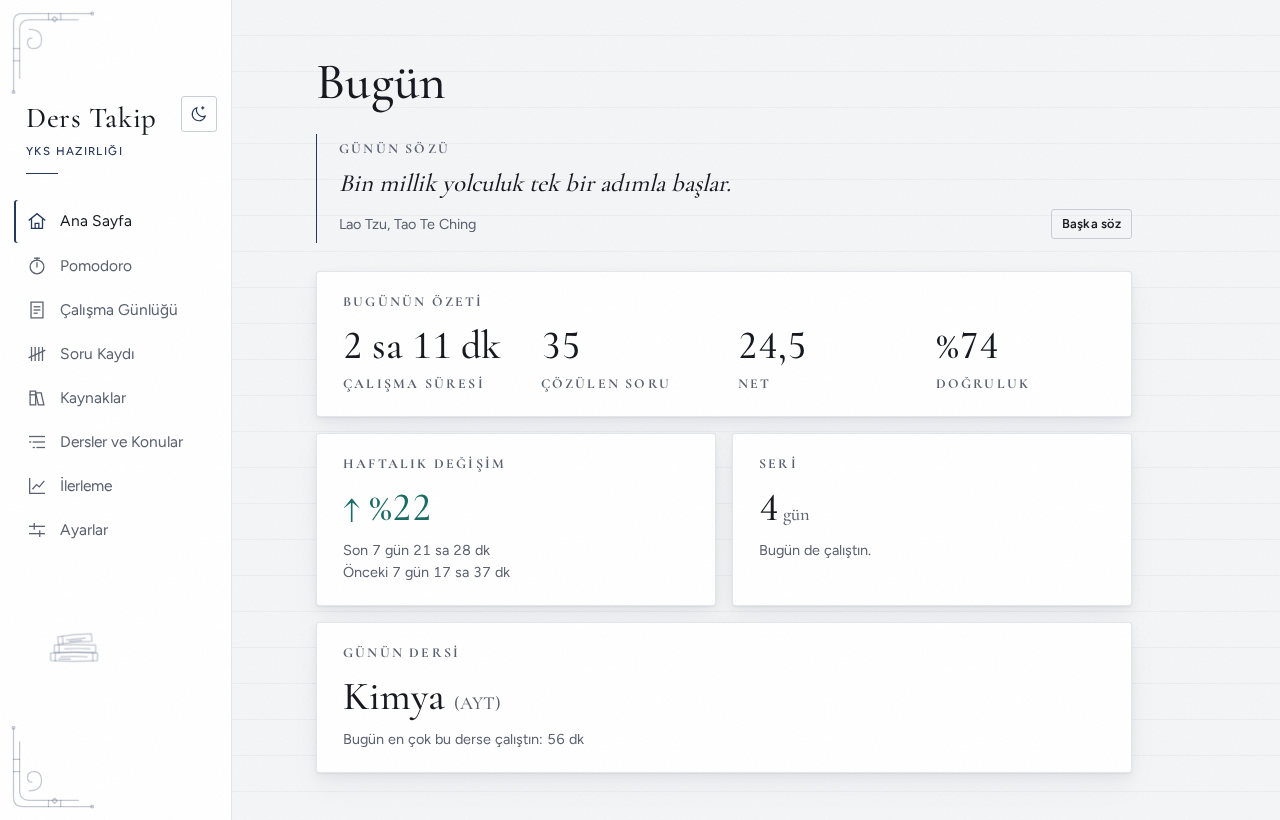
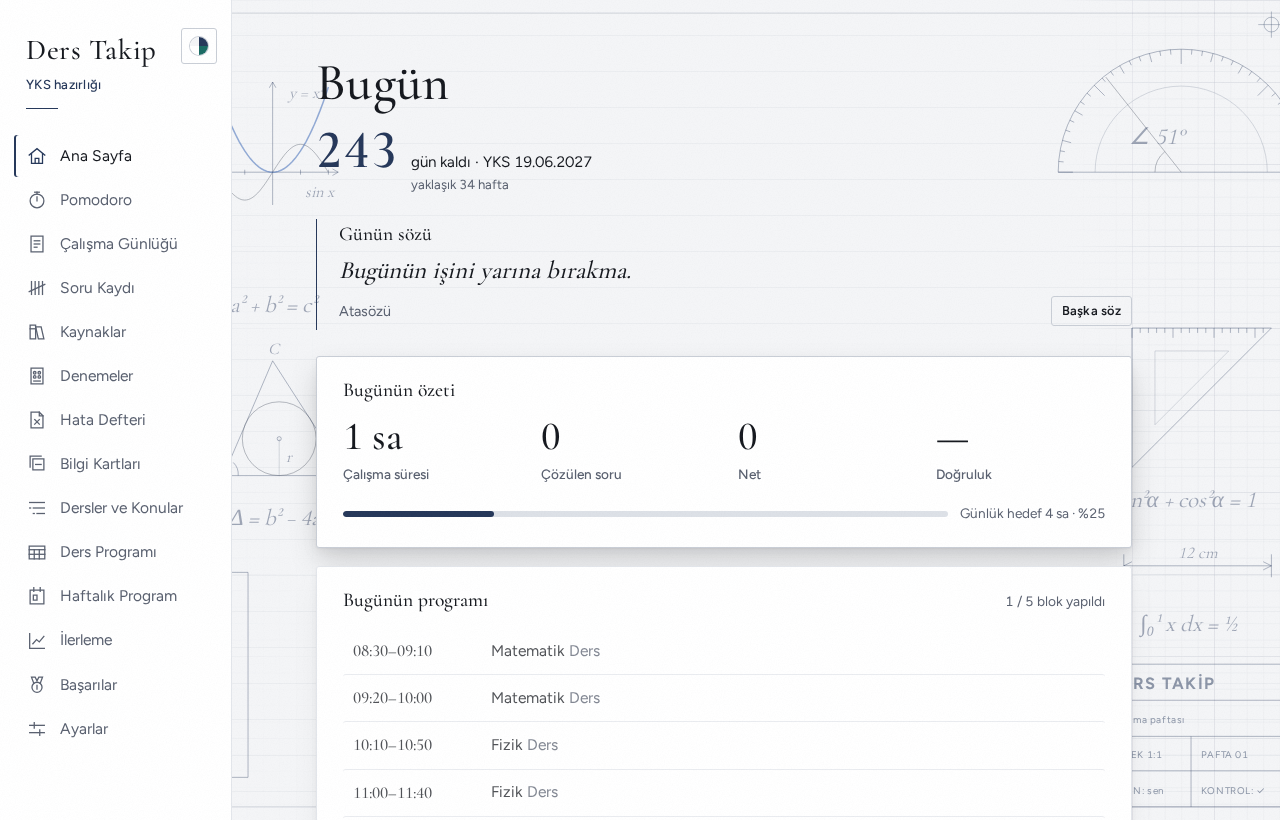
docs: README vitrini ve ekran görüntüleri güncel arayüzle yenilendi
- En üstte dört temayı gösteren tanıtım görseli (docs/social-preview.png,
  GitHub paylaşım önizlemesi olarak da kullanılabilir).
- Özellikler Çalış / Planla / Ölç / Tekrar et / Üniversite / Ve ayrıca diye
  gruplandı; 30 satırlık tablo yerine kısa maddeler.
- Bütün eski ekran görüntüleri örnek verilerle yeniden çekildi; Dönem ve
  devamsızlık görüntüleri eklendi, kullanılmayan görüntü silindi.

Claude-Session: https://claude.ai/code/session_01JevtdtGCnpPBVcnV2mfKpM

diff --git a/README.md b/README.md
@@ -1,56 +1,66 @@
-# Ders Takip
+<p align="center"><img src="docs/social-preview.png" alt="Ders Takip: dört temada ana sayfa" width="860"></p>
 
-**YKS, DGS ve üniversite dersleri için kişisel çalışma takip uygulaması.** Pomodoro ile çalış, süreni ve çözdüğün soruları kaydet, test kitaplarında nerede kaldığını takip et, ilerlemeni grafiklerle gör.
+<h1 align="center">Ders Takip</h1>
 
-[![Yayın](https://github.com/yusufoztoprak495-star/ders-takip/actions/workflows/pages.yml/badge.svg)](https://github.com/yusufoztoprak495-star/ders-takip/actions/workflows/pages.yml)
-![React](https://img.shields.io/badge/React-19-149eca)
-![Vite](https://img.shields.io/badge/Vite-8-646cff)
-![PWA](https://img.shields.io/badge/PWA-çevrimdışı%20çalışır-5a0fc8)
-![Testler](https://img.shields.io/badge/test-572%20geçiyor-2ea44f)
+<p align="center"><b>YKS, DGS ve üniversite için kişisel, çevrimdışı çalışan ders çalışma uygulaması.</b><br>
+Pomodoro ile çalış, denemelerini ve netini takip et, yanlışlarını hata defterine at, haftanı planla, gidişatını gör.</p>
 
-### 👉 [Uygulamayı aç](https://yusufoztoprak495-star.github.io/ders-takip/)
+<p align="center">
+<a href="https://github.com/yusufoztoprak495-star/ders-takip/actions/workflows/pages.yml"><img src="https://github.com/yusufoztoprak495-star/ders-takip/actions/workflows/pages.yml/badge.svg" alt="Yayın"></a>
+<img src="https://img.shields.io/badge/React-19-149eca" alt="React 19">
+<img src="https://img.shields.io/badge/Vite-8-646cff" alt="Vite 8">
+<img src="https://img.shields.io/badge/PWA-çevrimdışı%20çalışır-5a0fc8" alt="PWA">
+<img src="https://img.shields.io/badge/test-573%20geçiyor-2ea44f" alt="573 test">
+<img src="https://img.shields.io/badge/sunucu-yok-555" alt="Sunucu yok">
+</p>
+
+<h3 align="center">👉 <a href="https://yusufoztoprak495-star.github.io/ders-takip/">Uygulamayı aç</a></h3>
 
 Kurulum yok, hesap yok. Veriler yalnızca senin tarayıcında durur, hiçbir sunucuya gönderilmez. Telefonda "Ana ekrana ekle" ile uygulama gibi kurulur ve internetsiz de açılır.
 
-Önce nasıl göründüğüne bakmak istersen: **Ayarlar → Örnek verilerle dene** 200 günlük örnek bir YKS çalışma geçmişi yükler (kendi verin varsa önce yedek al).
+> **Önce bir bak:** Ayarlar → **Örnek verilerle dene**, 200 günlük örnek bir YKS çalışma geçmişi yükler (kendi verin varsa önce yedek al).
 
-![Ana sayfa: günün sözü, bugünün özeti, haftalık değişim, seri ve günün dersi](docs/screenshots/ana-sayfa.png)
+![Ana sayfa: geri sayım, günün sözü, bugünün özeti ve bugünün programı](docs/screenshots/ana-sayfa.png)
 
 ## Neler yapabilir?
 
-| | |
-| --- | --- |
-| 🎯 **Üç hedef** | YKS (TYT/AYT), DGS (sayısal/sözel) ya da üniversite dersleri. Her hedefin dersleri ve kayıtları ayrı tutulur; hedef değiştirince öbürü silinmez, gizlenir. |
-| ⏱ **Pomodoro** | Ders ve konu seçip sayacı başlat; süre dolunca çalışma kendiliğinden kaydedilir. Arkada odak sesi çalabilir: dört ölçülük cümlelerle sakin piyano, müzik kutusu, gece sentezi (arpej + bas + pad), derin ambiyans, damlalı yağmur ya da kahverengi gürültü. Hepsi tarayıcıda anlık üretilir, ses dosyası yok. |
-| 📒 **Çalışma günlüğü** | Pomodoro dışındaki çalışmaları elle ekle. |
-| 📝 **Denemeler** | Genel denemeler: TYT, AYT Sayısal / Eşit Ağırlık / Sözel ve DGS, bölüm bölüm; net grafiği, bir önceki denemeye göre değişim, en zayıf bölüm. Branş denemeleri: tek ders, kendi soru sayısıyla; ders başına ortalama ve net yüzdesi grafiği. |
-| 🎯 **Hedefler ve geri sayım** | Sınav tarihine kalan gün ana sayfada; günlük çalışma hedefi bugünün özetinde çubuk olarak. |
-| 🔁 **Konu tekrarı** | Bitirdiğin konuyu işaretle; 1, 3, 7 ve 30 gün sonra ana sayfadaki tekrar listesine düşer. |
-| ✍ **Soru kaydı** | Doğru / yanlış / boş gir; net (`doğru − yanlış / 4`) ve doğruluk otomatik hesaplanır. |
-| 📚 **Kaynaklar** | Test kitaplarında kaçıncı testte olduğun ve son çözüm tarihi. |
-| 📈 **İlerleme** | Günlük ve haftalık süre, net değişimi, derse göre karşılaştırma; derse ve konuya inip **en zayıf konunu** gör. |
-| 🗓 **Ders programı** | Okul, kurs ya da üniversite ders saatlerini haftalık gir (aynı saati birden çok güne tek seferde). Her günün şeridinde dersler ve 45 dakikadan uzun boşluklar süresiyle görünür. |
-| 🕘 **Haftalık program** | Haftayı saat saat planla: ders programındaki dersler ızgaraya kendiliğinden gelir, boş saate tıklayıp çalışma / mola / diğer bloğu ekle, bir günü başka günlere kopyala. Gün başlığında planlanan ve gerçekten kaydedilen çalışma süresi yan yana. |
-| 🗂 **Dersler ve konular** | YKS sayısalın 15 dersi (TYT: Türkçe, Matematik, Geometri, Fizik, Kimya, Biyoloji, Tarih, Coğrafya, Felsefe, Din Kültürü; AYT: Matematik, Geometri, Fizik, Kimya, Biyoloji) tüm konularıyla, müfredat sırasında hazır gelir. Listeyi düzenle ya da kendi derslerini (dönemiyle) ekle. |
-| ✨ **Canlılık** | Kartlar sırayla gelir, sayılar sayarak dolar, grafikler çizilerek açılır; pomodoro bitince, konu ya da ders tamamlanınca, yeni rekor nette ve günlük hedefe ulaşınca konfetili kutlama. "Hareketi azalt" açıksa hepsi kapanır. |
-| 🎨 **Dört tema** | Gece (Samanyolu, Türkçe adlı takımyıldızlar, gezegen yörüngeleri, kayan yıldızlar), Kâğıt (teknik çizim paftası: antet, gönye, grafikler, kalemle beliren notlar), Neon (yağmurlu neon gece, bokeh ışıklar, yanıp sönen ODAK tabelası) ve Pastel (kalın çizgili çıkartma kartlar, kareli defter, fosforlu başlık). Yeni tema, tema düğmesinden daire hâlinde yayılarak gelir; "hareketi azalt" açıksa arka planlar durur. Masaüstünde sol menü, telefonda 4 ana sekme + Diğer paneli. |
-| 📆 **Bugünün programı** | Ana sayfada bugünün dersleri ve çalışma blokları, şu anki blok vurgulu; bir bloktan tek dokunuşla Pomodoro başlat, tur bitince blok "yapıldı" olur. |
-| 🔥 **Isı haritası** | Son bir yılın her günü bir kare (ana sayfada son dört ay): kaç gün çalıştın, en uzun günün. |
-| 🔮 **Gidişat** | Deneme netinin tavana yaklaştıkça yavaşlayan eğriyle 3 aya kadar tahmini; konu bitirme hızına göre bitiş tarihi ve sınava yetişmek için haftada kaç konu gerektiği; günün hangi saatlerinde çalıştığın (verimli saatler). |
-| 🧮 **Puan ve sıralama tahmini** | TYT ve SAY / EA / SÖZ netlerinden (son 3 deneme ortalamasıyla doldurulabilir) ve diploma notundan tahmini ham ve yerleştirme puanı; 2025-YKS puan dağılımından tahmini başarı sırası; hedef sıra için gereken puan. Katsayılar yaklaşıktır, ekranda tahmin olduğu yazar. |
-| 🎯 **Yanlış konu analizi** | Denemeden sonra yanlış/boş soruların konusunu işle; "soru kaybettiren konular" sıralaması çıkar. |
-| 📸 **Hata defteri** | Yanlış yaptığın sorunun fotoğrafını çek (tarayıcıda küçültülür), cevabı ve notunu ekle; 1-3-7-30 gün arayla yeniden karşına çıkar, dört kez üst üste doğru çözünce öğrenilmiş sayılır. |
-| 🃏 **Bilgi kartları** | Formül ve tanımlar için çevrilen kartlar, Leitner kutularıyla (1-2-4-8-16 gün) tekrar; kartlardan 4 şıklı mini test. |
-| 🗒 **Konu notları** | Her konuya formül / püf noktası notu. |
-| 🧠 **Akıllı plan önerisi** | Haftalık programdaki boş saatlere zayıf konulardan (denemede soru kaybettiren, doğruluğu düşük, tekrarı gelen) çalışma blokları önerir; istemediklerini çıkarıp ekle. |
-| 🧘 **Odak modu ve mola sağlığı** | Tam ekran sade sayaç; turda sekmeden kaç kez çıktığın sayılır. Her 4 turda uzun mola, molada kısa öneriler, uzun turlarda 20-20-20 göz molası hatırlatması. |
-| 🏅 **Başarılar** | 20 rozet (seri, saat, soru, deneme, odak, erkenci kuş…) ve her pomodoroda büyüyen, temaya göre değişen koleksiyon: Gece'de yıldızlar, Kâğıt'ta mürekkep yapraklar, Neon'da ışıklar, Pastel'de çıkartmalar. |
-| 🖼 **Haftalık rapor kartı** | Haftanın özetini temanın renkleriyle 1080×1920 PNG olarak indir ya da paylaş. |
-| 🎓 **Dönem (üniversite)** | Ders başına kredi ve not bileşenleri, harf notu, hedef harf için finalden kaç alman gerektiği, dönem ortalaması; ders programından hesaplanan devamsızlık hakkı ve "Gitmedim" düğmesi; ödev teslimlerine geri sayım. |
-| ⌨ **Kısayollar ve hafif mod** | Tek harfle sayfa değiştir (`?` listeyi açar); haftalık programı ve sınav gününü `.ics` olarak takvimine aktar; eski cihazlar için animasyonları ve arka planı kapatan hafif mod; ana ekran simgesinde Pomodoro / Soru / Hafta kısayolları. |
-| 💾 **Yedekleme** | Yedeği indir/yükle (hata defteri fotoğrafları dahil), haftalık hatırlatma, bilgisayarda bir klasöre günlük otomatik yedek. |
+### ⏱ Çalış
+- **Pomodoro:** ders ve konu seç, sayaç bitince çalışma kendiliğinden kaydedilir. Tarayıcıda anlık üretilen odak sesleri (piyano, müzik kutusu, gece sentezi, yağmur, kahverengi gürültü…), ses dosyası yok.
+- **Odak modu:** tam ekran sade sayaç; turda sekmeden kaç kez çıktığın sayılır.
+- **Mola sağlığı:** her 4 turda uzun mola, molada kısa öneriler, uzun turlarda 20-20-20 göz molası hatırlatması.
+- **Çalışma günlüğü:** Pomodoro dışındaki çalışmaları elle ekle.
 
-> Üniversite hedefinde sınav mantığı yoktur: soru kaydı, kaynaklar, net ve doğruluk gizlenir; onların yerine Dönem sayfası (not, devamsızlık, ödev) gelir.
+### 🗓 Planla
+- **Bugünün programı:** ana sayfada bugünün dersleri ve blokları; bir bloktan tek dokunuşla Pomodoro başlat, tur bitince blok "yapıldı" olur.
+- **Ders programı:** okul, kurs ya da üniversite ders saatleri; her günün şeridinde dersler ve boş zaman.
+- **Haftalık program:** haftayı saat saat planla, bir günü başka günlere kopyala, planlanan ve gerçekleşen süre yan yana.
+- **Akıllı öneri:** boş saatlere en çok zorlandığın konulardan (denemede soru kaybettiren, doğruluğu düşük, tekrarı gelen) bloklar önerir.
+- **Takvime aktar:** programı ve sınav gününü `.ics` olarak Google / Apple Takvim'e aktar.
+- **Sınav geri sayımı ve günlük hedef.**
+
+### 📝 Ölç
+- **Soru kaydı ve kaynaklar:** doğru / yanlış / boş; net (`doğru − yanlış / 4`) ve doğruluk kendiliğinden. Test kitaplarında nerede kaldığın.
+- **Denemeler:** TYT, AYT SAY / EA / SÖZ ve DGS bölüm bölüm; branş denemeleri ayrı sekmede. Denemeden sonra yanlış/boş soruların konusunu işle, **soru kaybettiren konular** sıralaması çıkar.
+- **Puan ve sıralama tahmini:** netlerinden ve diploma notundan tahmini puan, 2025 dağılımından tahmini başarı sırası, hedef sıra için gereken puan (yaklaşık katsayılarla; ekranda tahmin olduğu yazar).
+- **İlerleme:** yıllık ısı haritası; günlük/haftalık süre, net değişimi, derse ve konuya inip en zayıf konu; verimli saatler; net gidişatı ve konu bitiş tahmini.
+- **Haftalık rapor kartı:** haftanın özeti, temanın renkleriyle 1080×1920 PNG.
+
+### 🔁 Tekrar et
+- **Konu tekrarı:** bitirdiğin konu 1, 3, 7 ve 30 gün sonra tekrar listesine düşer; her konuya not.
+- **Hata defteri:** yanlış yaptığın sorunun fotoğrafını çek (tarayıcıda küçültülür); aynı aralıklarla yeniden karşına çıkar.
+- **Bilgi kartları:** çevrilen kartlar ve Leitner kutuları (1-2-4-8-16 gün); kartlardan 4 şıklı mini test.
+
+### 🎓 Üniversite
+- **Dönem sayfası:** ders başına kredi ve not bileşenleri, harf notu, hedef harf için finalden kaç alman gerektiği, dönem ortalaması.
+- **Devamsızlık:** hakkın ders programından (14 haftanın %30'u) hesaplanır; bugünkü derslerden tek tıkla "Gitmedim".
+- **Ödevler:** teslim tarihine geri sayım, ana sayfada yaklaşan teslimler.
+
+### ✨ Ve ayrıca
+- **Dört tema:** Gece (yıldız haritası), Kâğıt (teknik çizim paftası), Neon (yağmurlu neon gece), Pastel (çıkartmalı defter); tema düğmesinden daire hâlinde yayılarak gelir.
+- **Başarılar:** 20 rozet ve her pomodoroda büyüyen, temaya göre değişen koleksiyon (yıldız, mürekkep yaprak, neon ışık, çıkartma).
+- **Klavye kısayolları** (`?` listeyi açar), ana ekran simgesinde kısayollar, eski cihazlar için **hafif mod**.
+- **Üç hedef:** YKS, DGS ya da üniversite; her hedefin dersleri ve kayıtları ayrı, hedef değişince öbürü gizlenir, silinmez.
+- **Yedekleme:** yedeği indir/yükle (fotoğraflar dahil), haftalık hatırlatma, bilgisayarda bir klasöre günlük otomatik yedek.
 
 ## Ekran görüntüleri
 
@@ -110,7 +120,11 @@ Kurulum yok, hesap yok. Veriler yalnızca senin tarayıcında durur, hiçbir sun
 | --- | --- |
 | ![Açık temada ana sayfa](docs/screenshots/ana-sayfa-acik.png) | ![Ayarlar: YKS, DGS, Üniversite](docs/screenshots/hedef-secimi.png) |
 
-| Üniversite: dersler | Üniversite: yalnızca süre |
+| Üniversite: Dönem (notlar) | Üniversite: devamsızlık |
+| --- | --- |
+| ![Dönem sayfası: ortalama, sıradaki teslim, ders notları ve finalden kaç](docs/screenshots/donem.png) | ![Ders programından hesaplanan devamsızlık hakları](docs/screenshots/donem-devamsizlik.png) |
+
+| Üniversite: dersler | Üniversite: İlerleme |
 | --- | --- |
 | ![Kendi eklenen üniversite dersleri](docs/screenshots/universite-dersler.png) | ![Üniversite modunda İlerleme](docs/screenshots/universite-ilerleme.png) |
 
